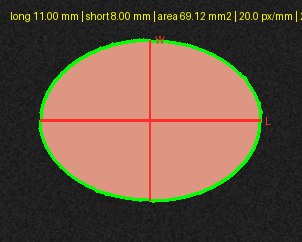
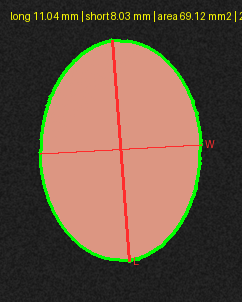
Rename project to specimen-measure
Generalizes the public identity to match the actual scope: this tool is
used for tumor and other-organ size measurement, not just hearts.
Renames the heart_measure package to specimen_measure (all imports,
pyproject entry point, and package metadata updated to match) and
updates the README to describe the generalized usage, orientation
modes, and manual-correction workflow. No functional changes.

Changed region(s): [[0.1157, 0.1157, 0.8967, 0.8967], [0.0289, 0.0289, 1.0, 0.0868]]

diff --git a/app.py b/app.py
@@ -1,5 +1,6 @@
-"""heart-measure UI: a point-and-click front end for the batch measurement
-pipeline, so anyone in the lab can run it without touching a command line.
+"""specimen-measure UI: a point-and-click front end for the batch
+measurement pipeline, so anyone in the lab can run it without touching a
+command line.
 
 Launch with:
     streamlit run app.py
@@ -17,10 +18,10 @@ from PIL import Image, ImageDraw
 from skimage import measure as sk_measure
 from streamlit_image_coordinates import streamlit_image_coordinates
 
-from heart_measure.cli import DEFAULT_PATTERN, find_images, summarize_by_animal_and_view
-from heart_measure.measure import get_rotated_crop, measure_file
+from specimen_measure.cli import DEFAULT_PATTERN, find_images, summarize_by_animal_and_view
+from specimen_measure.measure import get_rotated_crop, measure_file
 
-st.set_page_config(page_title="heart-measure", layout="wide")
+st.set_page_config(page_title="specimen-measure", layout="wide")
 
 ORIENT_OPTIONS = {
     "Heart (atria up, apex down)": "apex_down",
@@ -35,7 +36,7 @@ for key, default in [
     if key not in st.session_state:
         st.session_state[key] = default
 
-st.title("heart-measure")
+st.title("specimen-measure")
 st.caption(
     "Ruler-calibrated long-axis / short-axis / area measurement for excised organ or tumor "
     "specimen photos. Each overlay is rotated to a standard orientation for easy side-by-side "
@@ -62,7 +63,7 @@ if mode == "Upload photos":
         type=["tif", "tiff"], accept_multiple_files=True,
     )
     if uploaded:
-        upload_dir = Path(tempfile.mkdtemp(prefix="heart_measure_upload_"))
+        upload_dir = Path(tempfile.mkdtemp(prefix="specimen_measure_upload_"))
         for uf in uploaded:
             dest = upload_dir / uf.name
             dest.write_bytes(uf.getbuffer())
@@ -82,7 +83,7 @@ else:
 if image_paths:
     st.write(f"Found **{len(image_paths)}** image(s).")
     if st.button("Run measurement", type="primary"):
-        overlay_dir = Path(tempfile.mkdtemp(prefix="heart_measure_overlays_"))
+        overlay_dir = Path(tempfile.mkdtemp(prefix="specimen_measure_overlays_"))
         rows = []
         overlay_paths: dict[str, Path] = {}
         path_by_name: dict[str, Path] = {}
@@ -148,7 +149,7 @@ if df is not None:
     touching = ok[ok["touches_frame_edge"]]
     if len(touching):
         st.warning(
-            f"{len(touching)} image(s) have a heart mask touching the frame edge — "
+            f"{len(touching)} image(s) have a specimen mask touching the frame edge — "
             f"worth a visual check for possible cropping: " + ", ".join(touching["filename"])
         )
 
@@ -188,7 +189,7 @@ if df is not None:
 
         cache_key = (choice, flip)
         if cache_key not in st.session_state.render_cache:
-            tmp_dir = Path(tempfile.mkdtemp(prefix="heart_measure_render_"))
+            tmp_dir = Path(tempfile.mkdtemp(prefix="specimen_measure_render_"))
             tmp_overlay = tmp_dir / f"{Path(choice).stem}_overlay.png"
             measure_file(
                 orig_path, overlay_path=tmp_overlay, orient_mode=orient_mode,
@@ -258,7 +259,7 @@ if df is not None:
             except Exception as exc:  # noqa: BLE001
                 st.error(f"Can't build a manual-measurement canvas for this image: {exc}")
 
-        zip_base = Path(tempfile.mkdtemp(prefix="heart_measure_zip_")) / "overlays"
+        zip_base = Path(tempfile.mkdtemp(prefix="specimen_measure_zip_")) / "overlays"
         zip_path = shutil.make_archive(str(zip_base), "zip", overlay_paths[choice].parent)
         with open(zip_path, "rb") as fh:
             st.download_button(

diff --git a/specimen_measure/cli.py b/specimen_measure/cli.py
@@ -1,7 +1,7 @@
 """Command-line entry point: batch-measure every specimen photo in a folder.
 
 Usage:
-    python -m heart_measure.cli --input-dir "/path/to/photos" --output-dir ./results
+    python -m specimen_measure.cli --input-dir "/path/to/photos" --output-dir ./results
 """
 from __future__ import annotations
 
@@ -84,7 +84,7 @@ def run(
         print(f"{n_failed} image(s) failed — see the 'error' column in measurements.csv.")
     flagged = ok[ok["touches_frame_edge"]]
     if len(flagged):
-        print(f"{len(flagged)} image(s) have a heart mask touching the frame edge — "
+        print(f"{len(flagged)} image(s) have a specimen mask touching the frame edge — "
               f"worth a visual check (possible crop/clipping).")
     low_conf = ok[ok["low_confidence_calibration"]]
     if len(low_conf):

diff --git a/tests/test_segmentation.py b/tests/test_segmentation.py
@@ -1,7 +1,7 @@
 import pytest
 
-from heart_measure.calibration import calibrate
-from heart_measure.segmentation import segment_heart
+from specimen_measure.calibration import calibrate
+from specimen_measure.segmentation import segment_heart
 from .synthetic import make_synthetic_photo
 
 

diff --git a/tests/test_calibration.py b/tests/test_calibration.py
@@ -1,7 +1,7 @@
 import numpy as np
 import pytest
 
-from heart_measure.calibration import CalibrationError, calibrate
+from specimen_measure.calibration import CalibrationError, calibrate
 from .synthetic import make_synthetic_photo
 
 

diff --git a/tests/test_metadata.py b/tests/test_metadata.py
@@ -1,4 +1,4 @@
-from heart_measure.metadata import parse_filename
+from specimen_measure.metadata import parse_filename
 
 
 def test_parses_typical_filename():

diff --git a/specimen_measure/__init__.py b/specimen_measure/__init__.py
@@ -1,0 +1,3 @@
+"""specimen-measure: scale-calibrated morphometry for photographed excised organ/tumor specimens."""
+
+__version__ = "0.1.0"
